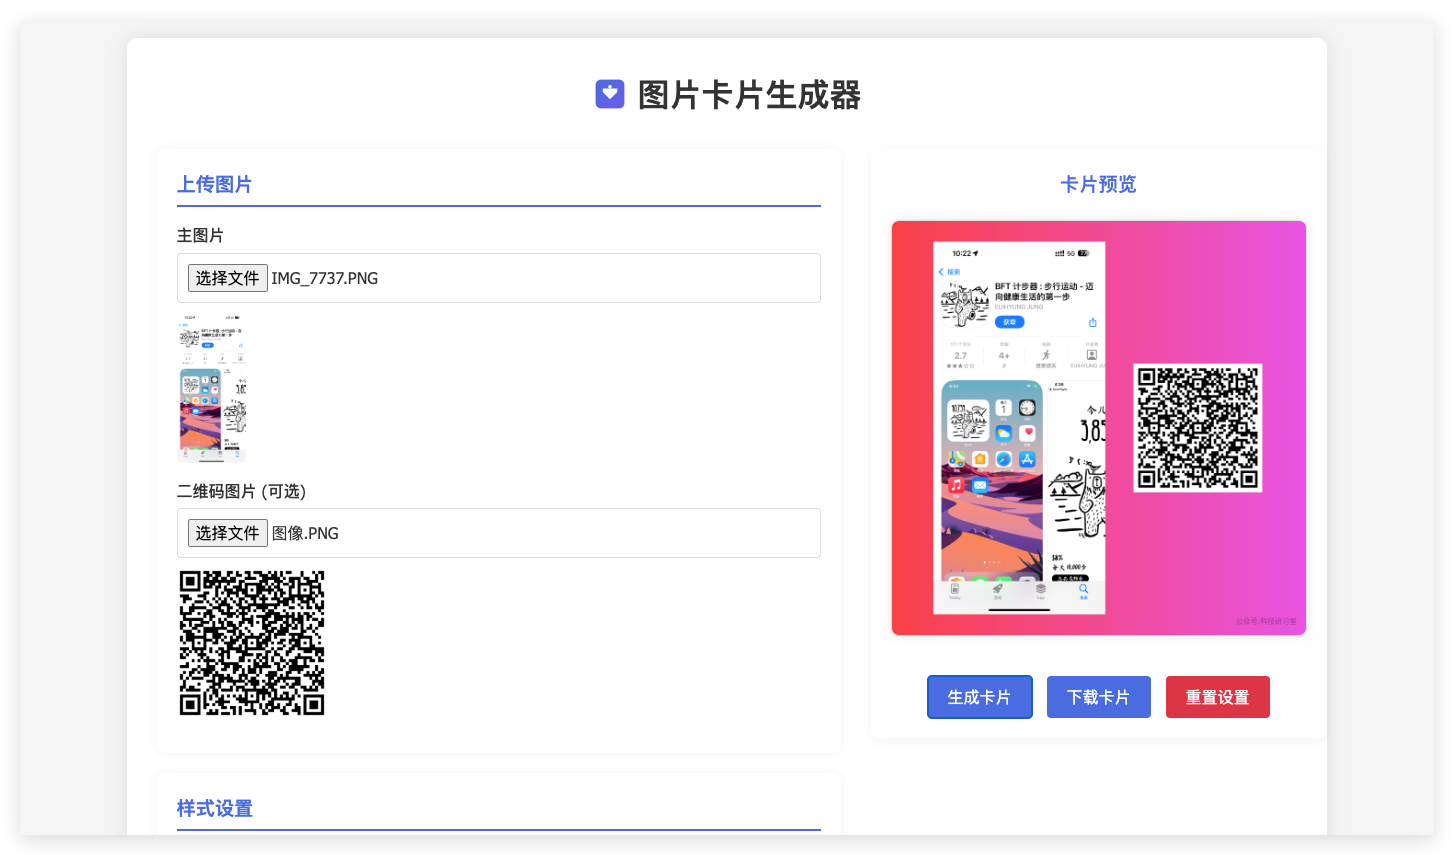
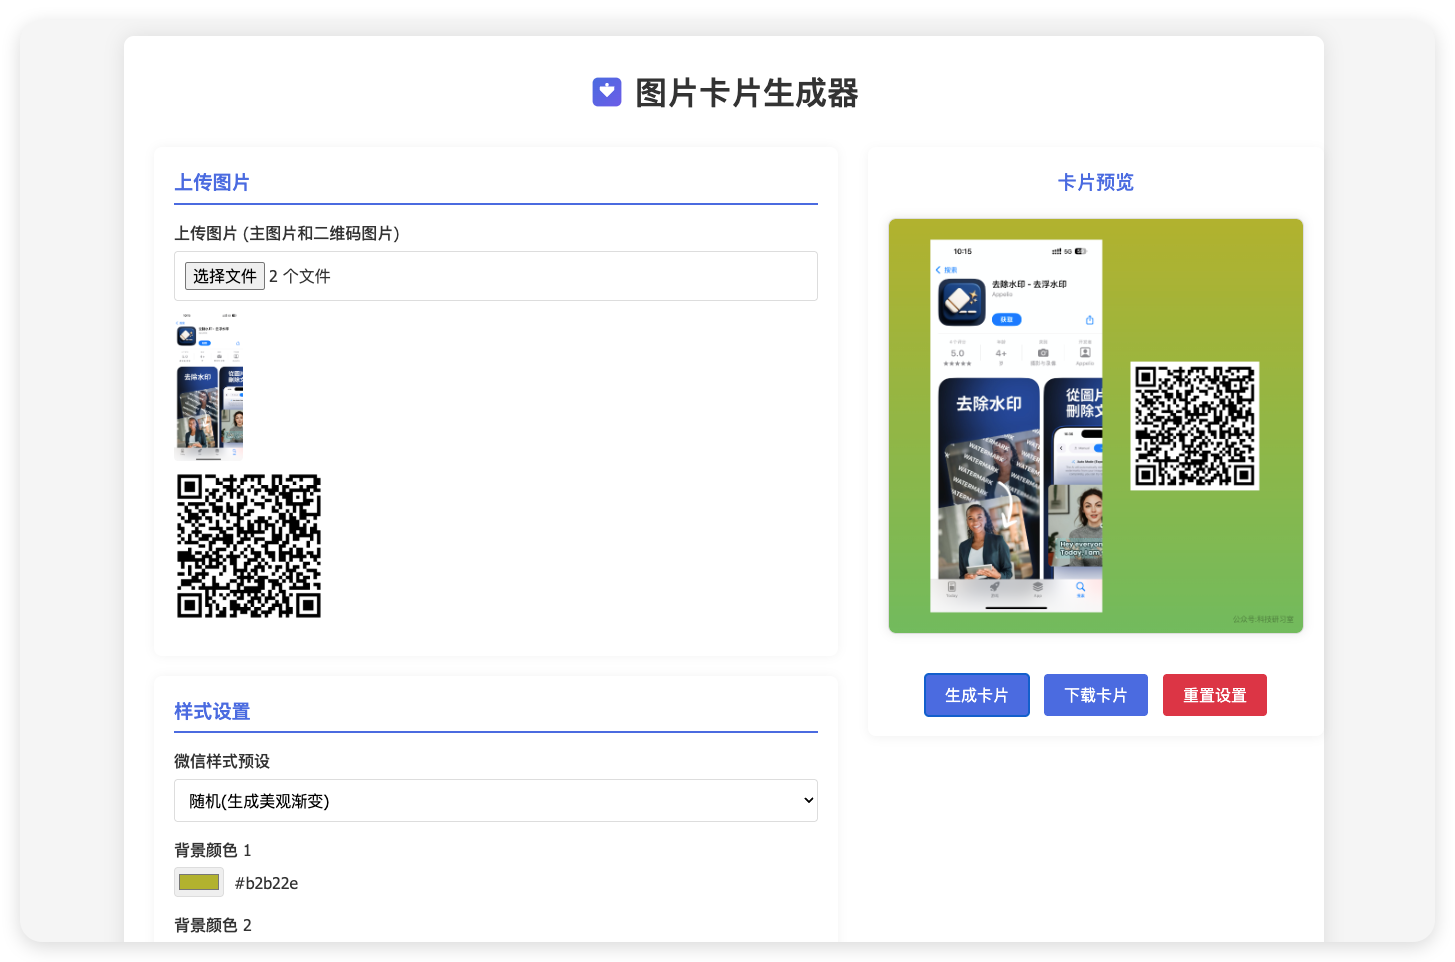
feat: 上传图片，渐变优化

diff --git a/index.html b/index.html
@@ -395,18 +395,13 @@
               <h2 class="panel-title">上传图片</h2>
 
               <div class="form-group">
-                <label for="mainImage">主图片</label>
-                <input type="file" id="mainImage" accept="image/*" />
+                <label for="imageUpload">上传图片 (主图片和二维码图片)</label>
+                <input type="file" id="imageUpload" accept="image/*" multiple />
                 <img
                   id="mainImagePreview"
                   class="image-preview"
                   alt="主图片预览"
                 />
-              </div>
-
-              <div class="form-group">
-                <label for="titleImage">二维码图片 (可选)</label>
-                <input type="file" id="titleImage" accept="image/*" />
                 <img
                   id="titleImagePreview"
                   class="image-preview"
@@ -684,8 +679,7 @@
 
     <script>
       // DOM元素
-      const mainImageInput = document.getElementById("mainImage");
-      const titleImageInput = document.getElementById("titleImage");
+      const imageUploadInput = document.getElementById("imageUpload");
       const mainImagePreview = document.getElementById("mainImagePreview");
       const titleImagePreview = document.getElementById("titleImagePreview");
       const cardTitleInput = document.getElementById("cardTitle");
@@ -733,71 +727,73 @@
       const ctx = canvas.getContext("2d");
 
       // 图片加载
-      mainImageInput.addEventListener("change", function (e) {
-        loadImage(e.target.files[0], mainImagePreview);
-        
-        // 如果当前选择的是自动样式，则自动提取颜色
-        if (stylePresetSelect.value === "auto" && e.target.files && e.target.files.length > 0) {
-          // 显示加载指示器
-          loadingDiv.classList.add("show");
-          
-          // 加载图片并提取颜色
+      imageUploadInput.addEventListener("change", function (e) {
+        const files = e.target.files;
+        if (files.length === 0) return;
+
+        let mainImageFile = null;
+        let titleImageFile = null;
+
+        // 清空之前的预览
+        mainImagePreview.src = "";
+        mainImagePreview.style.display = "none";
+        titleImagePreview.src = "";
+        titleImagePreview.style.display = "none";
+
+        // 遍历所有选择的文件
+        Array.from(files).forEach(file => {
           const img = new Image();
           img.onload = function() {
-            // 提取主体颜色
-            const colors = extractDominantColors(img);
-            
-            // 应用提取的颜色
-            bgColor1Input.value = colors.primary;
-            bgColor1Value.textContent = colors.primary;
-            bgColor2Input.value = colors.secondary;
-            bgColor2Value.textContent = colors.secondary;
-            
-            // 设置渐变方向 - 对角线通常效果较好
-            gradientTypeSelect.value = "to right bottom";
-            
-            // 隐藏加载指示器
-            loadingDiv.classList.remove("show");
-            
-            showMessage("已根据图片最鲜艳的颜色自动设置背景渐变", "success");
-          };
-          
-          img.onerror = function() {
-            loadingDiv.classList.remove("show");
-            showMessage("无法分析图片颜色，已使用默认颜色", "error");
-          };
-          
-          img.src = URL.createObjectURL(e.target.files[0]);
-        }
-        // 如果当前选择的是随机样式，则自动生成随机渐变色
-        else if (stylePresetSelect.value === "random" && e.target.files && e.target.files.length > 0) {
-          // 生成随机美观渐变
-          const randomColors = generateRandomGradientColors();
-          bgColor1Input.value = randomColors.primary;
-          bgColor1Value.textContent = randomColors.primary;
-          bgColor2Input.value = randomColors.secondary;
-          bgColor2Value.textContent = randomColors.secondary;
-          
-          // 随机选择渐变方向
-          const directions = ["to right", "to bottom", "to right bottom", "to left bottom"];
-          const randomDirection = directions[Math.floor(Math.random() * directions.length)];
-          gradientTypeSelect.value = randomDirection;
-          
-          // 随机设置圆角和阴影
-          const radius = Math.floor(Math.random() * 16); // 0-15的圆角
-          cardRadiusInput.value = radius.toString();
-          cardRadiusValue.textContent = radius.toString();
-          
-          const shadow = 3 + Math.floor(Math.random() * 8); // 3-10的阴影
-          cardShadowInput.value = shadow.toString();
-          cardShadowValue.textContent = shadow.toString();
-          
-          showMessage("已生成随机美观渐变背景", "success");
-        }
-      });
+            // 判断图片是否为方形 (二维码通常是方形)
+            if (Math.abs(img.width - img.height) < 5) { // 允许少量误差
+              titleImageFile = file;
+              loadImage(file, titleImagePreview);
+            } else {
+              mainImageFile = file;
+              loadImage(file, mainImagePreview);
+            }
 
-      titleImageInput.addEventListener("change", function (e) {
-        loadImage(e.target.files[0], titleImagePreview);
+            // 如果当前选择的是自动样式，则自动提取颜色 (只对主图片生效)
+            if (stylePresetSelect.value === "auto" && mainImageFile) {
+              loadingDiv.classList.add("show");
+              const mainImg = new Image();
+              mainImg.onload = function() {
+                const colors = extractDominantColors(mainImg);
+                bgColor1Input.value = colors.primary;
+                bgColor1Value.textContent = colors.primary;
+                bgColor2Input.value = colors.secondary;
+                bgColor2Value.textContent = colors.secondary;
+                gradientTypeSelect.value = "to right bottom";
+                loadingDiv.classList.remove("show");
+                showMessage("已根据主图片最鲜艳的颜色自动设置背景渐变", "success");
+              };
+              mainImg.onerror = function() {
+                loadingDiv.classList.remove("show");
+                showMessage("无法分析主图片颜色，已使用默认颜色", "error");
+              };
+              mainImg.src = URL.cURL.createObjectURL(mainImageFile);
+            }
+            // 如果当前选择的是随机样式，则自动生成随机渐变色
+            else if (stylePresetSelect.value === "random") {
+              const randomColors = generateRandomGradientColors();
+              bgColor1Input.value = randomColors.primary;
+              bgColor1Value.textContent = randomColors.primary;
+              bgColor2Input.value = randomColors.secondary;
+              bgColor2Value.textContent = randomColors.secondary;
+              const directions = ["to right", "to bottom", "to right bottom", "to left bottom"];
+              const randomDirection = directions[Math.floor(Math.random() * directions.length)];
+              gradientTypeSelect.value = randomDirection;
+              const radius = Math.floor(Math.random() * 16); // 0-15的圆角
+              cardRadiusInput.value = radius.toString();
+              cardRadiusValue.textContent = radius.toString();
+              const shadow = 3 + Math.floor(Math.random() * 8); // 3-10的阴影
+              cardShadowInput.value = shadow.toString();
+              cardShadowValue.textContent = shadow.toString();
+              showMessage("已生成随机美观渐变背景", "success");
+            }
+          };
+          img.src = URL.createObjectURL(file);
+        });
       });
 
       // 颜色选择器值显示
@@ -926,7 +922,7 @@
       // 生成卡片函数
       function generateCard() {
         // 验证主图片
-        if (!mainImageInput.files || mainImageInput.files.length === 0) {
+        if (!mainImagePreview.src) {
           showMessage("请上传主图片", "error");
           return;
         }
@@ -937,9 +933,9 @@
 
         // 异步加载所有图片
         Promise.all([
-          loadImageAsync(mainImageInput.files[0]),
-          titleImageInput.files && titleImageInput.files.length > 0
-            ? loadImageAsync(titleImageInput.files[0])
+          loadImageAsync(mainImagePreview.src),
+          titleImagePreview.src
+            ? loadImageAsync(titleImagePreview.src)
             : Promise.resolve(null),
         ])
           .then(([mainImage, qrCodeImage]) => {
@@ -1143,9 +1139,9 @@
       }
 
       // 异步加载图片
-      function loadImageAsync(file) {
+      function loadImageAsync(src) {
         return new Promise((resolve, reject) => {
-          if (!file) {
+          if (!src) {
             resolve(null);
             return;
           }
@@ -1153,7 +1149,7 @@
           const img = new Image();
           img.onload = () => resolve(img);
           img.onerror = () => reject(new Error("图片加载失败"));
-          img.src = URL.createObjectURL(file);
+          img.src = src;
         });
       }
 
@@ -1421,8 +1417,8 @@
         if (hue2 < 0) hue2 += 360; // 确保色调在0-360范围内
         
         // 饱和度和亮度也要适中，以确保颜色美观
-        const saturation1 = 70 + Math.floor(Math.random() * 30); // 70-100%
-        const saturation2 = 70 + Math.floor(Math.random() * 30); // 70-100%
+        const saturation1 = 40 + Math.floor(Math.random() * 30); // 40-70%
+        const saturation2 = 40 + Math.floor(Math.random() * 30); // 40-70%
         
         const lightness1 = 40 + Math.floor(Math.random() * 30); // 40-70%
         const lightness2 = 40 + Math.floor(Math.random() * 30); // 40-70%
